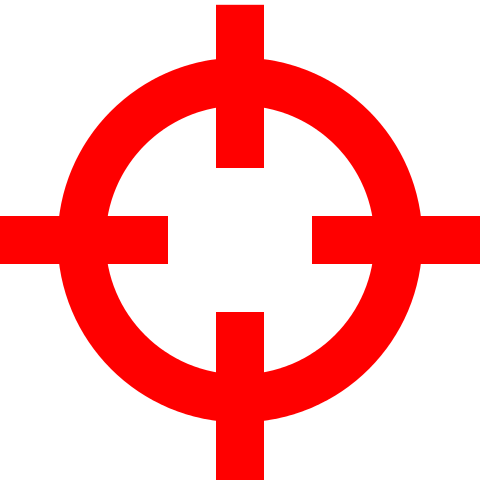
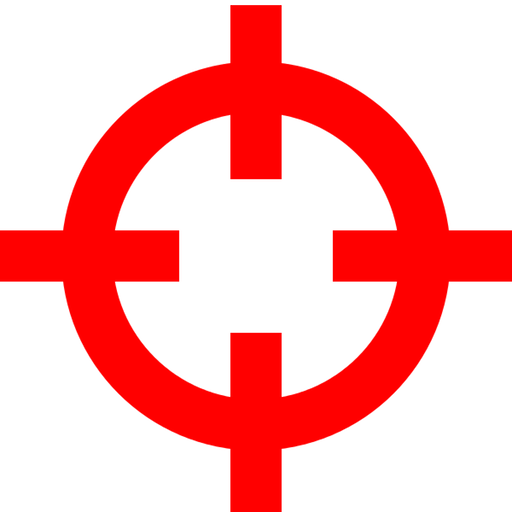
Add crosshair texture. Add wall raycaster. Fix performance in VR mode. Fix styles

diff --git a/02-webvr-intro/src/controls/GamepadControls.js b/02-webvr-intro/src/controls/GamepadControls.js
@@ -19,11 +19,12 @@ export default class GamepadControls {
     this.useGamepad = false
     this.target = target || window
     this.batchedEvents = []
+    this.prevGamepadState = []
 
     this.connect()
   }
 
-  get events () {
+  getEvents () {
     const events = this.batchedEvents
 
     if (this.useGamepad) {
@@ -39,20 +40,41 @@ export default class GamepadControls {
   }
 
   listenGamepadEvents () {
+    const now = Date.now()
     const gamepads = getGamepads()
 
     for (let i = 0; i < gamepads.length; i += 1) {
       if (gamepads[i]) {
+        if (!this.prevGamepadState[i]) {
+          this.prevGamepadState[i] = []
+        }
+
         const buttons = gamepads[i].buttons
 
         for (let j = 0; j < buttons.length; j += 1) {
-          if (isPressed(buttons[j])) {
-            this.batchedEvents.push({
-              type: 'GamepadEvent',
-              eventType: 'keydown',
-              button: buttons[j],
-              gamepad: i
-            })
+          const btnState = this.prevGamepadState[i][j]
+
+          if (!btnState) {
+            this.prevGamepadState[i][j] = {
+              pressed: false,
+              startTime: -1
+            }
+          }
+
+          if (this.prevGamepadState[i][j].pressed !== isPressed(buttons[j])) {
+            if (isPressed(buttons[j])) {
+              this.prevGamepadState[i][j].pressed = true
+              this.prevGamepadState[i][j].startTime = now
+
+              this.batchedEvents.push({
+                type: 'GamepadEvent',
+                eventType: 'keydown',
+                button: buttons[j],
+                gamepad: i
+              })
+            } else {
+              this.prevGamepadState[i][j].pressed = false
+            }
           }
         }
       }

diff --git a/02-webvr-intro/src/components/Wall.js b/02-webvr-intro/src/components/Wall.js
@@ -9,7 +9,10 @@ GLTF2Loader(THREE)
 const WALL_WIDTH = 4
 const WALL_HEIGHT = 4
 
+const BOX_SIZE = 2
 const BOX_SCALE = 1
+
+const raycaster = new THREE.Raycaster()
 
 class Wall {
   constructor (renderer) {
@@ -29,16 +32,32 @@ class Wall {
     for (let i = 0; i < WALL_WIDTH; i += 1) {
       for (let j = 0; j < WALL_HEIGHT; j += 1) {
         const model = this.model.clone()
-        model.position.x = (i - (WALL_WIDTH / 4)) * 2
-        model.position.y = j * 2
+        model.position.x = i * BOX_SIZE * BOX_SCALE
+        model.position.y = j * BOX_SIZE * BOX_SCALE
         this.root.add(model)
       }
     }
   }
 
+  hit (origin, direction) {
+    raycaster.set(origin, direction)
+
+    const intersects = raycaster.intersectObjects(this.root.children)
+
+    for (let i = 0; i < intersects.length; i += 1) {
+      const { object } = intersects[i]
+      this.root.remove(object)
+    }
+
+    if (this.root.children.length === 0) {
+      this.build()
+    }
+  }
+
   setPosition () {
-    this.root.position.y = -Y_OFFSET
-    this.root.position.z = -7
+    this.root.position.x = -WALL_WIDTH + (BOX_SIZE / 2)
+    this.root.position.y = -Y_OFFSET + (BOX_SIZE / 2)
+    this.root.position.z = -10
   }
 
   handleLoad = (object, resolve) => {

diff --git a/02-webvr-intro/src/components/Cursor.js b/02-webvr-intro/src/components/Cursor.js
@@ -5,13 +5,14 @@ import CrosshairImage from 'images/crosshair.png'
 const DEFAULT_CURSOR_DISTANCE = 1
 const DEFAULT_CURSOR_WIDTH = 0.05
 
-const origin = new THREE.Vector3()
 const vector = new THREE.Vector3()
 
 class Cursor {
   constructor () {
-    const texture = new THREE.TextureLoader().load(CrosshairImage)
+    this.origin = new THREE.Vector3()
+    this.direction = new THREE.Vector3()
 
+    const texture = new THREE.TextureLoader().load(CrosshairImage)
     const geometry = new THREE.PlaneGeometry(
       DEFAULT_CURSOR_WIDTH,
       DEFAULT_CURSOR_WIDTH
@@ -31,11 +32,11 @@ class Cursor {
   }
 
   update (camera) {
-    const direction = camera.getWorldDirection(vector)
+    this.direction = camera.getWorldDirection(vector)
 
-    const x = origin.x + direction.x * DEFAULT_CURSOR_DISTANCE
-    const y = origin.y + direction.y * DEFAULT_CURSOR_DISTANCE
-    const z = origin.z + direction.z * DEFAULT_CURSOR_DISTANCE
+    const x = this.origin.x + this.direction.x * DEFAULT_CURSOR_DISTANCE
+    const y = this.origin.y + this.direction.y * DEFAULT_CURSOR_DISTANCE
+    const z = this.origin.z + this.direction.z * DEFAULT_CURSOR_DISTANCE
 
     this.mesh.position.set(
       camera.position.x + x,

diff --git a/02-webvr-intro/src/app.js b/02-webvr-intro/src/app.js
@@ -81,14 +81,14 @@ class App {
   setComponents () {
     const sky = Sky()
     const ground = Ground()
-    const wall = new Wall(this.renderer)
+    this.wall = new Wall(this.renderer)
     this.turret = new Turret(this.renderer)
     this.cursor = new Cursor()
 
     this.turret.init()
       .then(this.handleModelLoad)
 
-    wall.init()
+    this.wall.init()
       .then(this.handleModelLoad)
 
     this.scene.add(sky)
@@ -122,7 +122,15 @@ class App {
   };
 
   handleButtonClick = (events) => {
-    console.log(events)
+    if (
+      (typeof this.wall !== 'undefined') &&
+      (typeof this.cursor !== 'undefined')
+    ) {
+      this.wall.hit(
+        this.cursor.origin,
+        this.cursor.direction
+      )
+    }
   }
 
   animate = () => {

diff --git a/02-webvr-intro/src/controls/AppControls.js b/02-webvr-intro/src/controls/AppControls.js
@@ -1,8 +1,6 @@
 // eslint-disable-next-line max-len
 // @source: https://github.com/facebook/react-vr/blob/a1574e94917304a1c47f539df0dc5d0f4306fba9/OVRUI/src/Control/AppControls.js
 
-import isFunction from 'lodash/isFunction'
-
 import MousePanControls from './MousePanControls'
 import DeviceOrientationControls from './DeviceOrientationControls'
 import VRControls from './VRControls'
@@ -47,9 +45,9 @@ export default class AppControls {
 
   frame (frameOptions) {
     const { onButtonClick } = this.options
-    const gamepadEvents = this.gamepad.events
+    const gamepadEvents = this.gamepad.getEvents()
 
-    if (gamepadEvents && isFunction(onButtonClick)) {
+    if (gamepadEvents && onButtonClick) {
       onButtonClick(gamepadEvents)
     }
 

diff --git a/02-webvr-intro/src/styles/main.scss b/02-webvr-intro/src/styles/main.scss
@@ -2,6 +2,10 @@ body {
   background-color: #fff;
 }
 
+* {
+  user-select: none;
+}
+
 canvas {
   display: block;
 }
